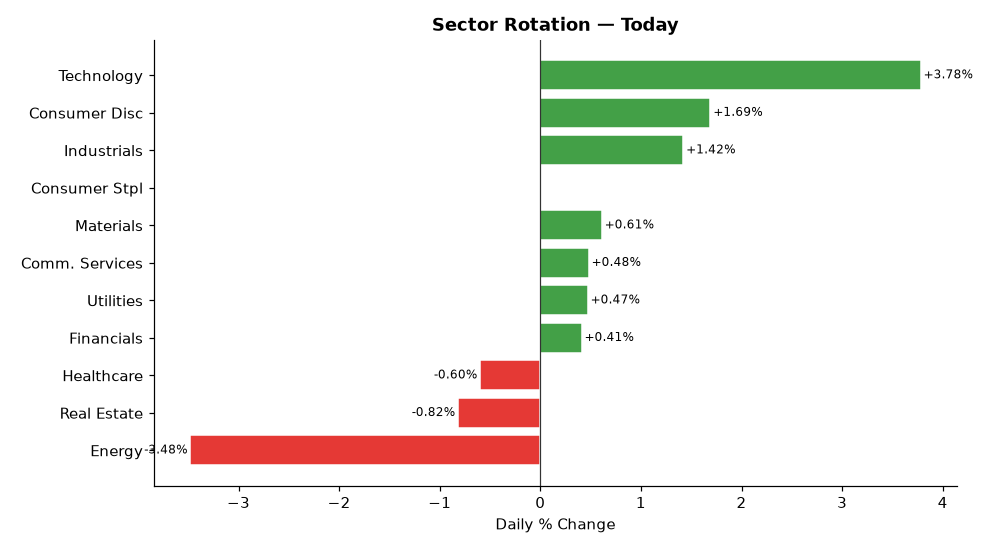
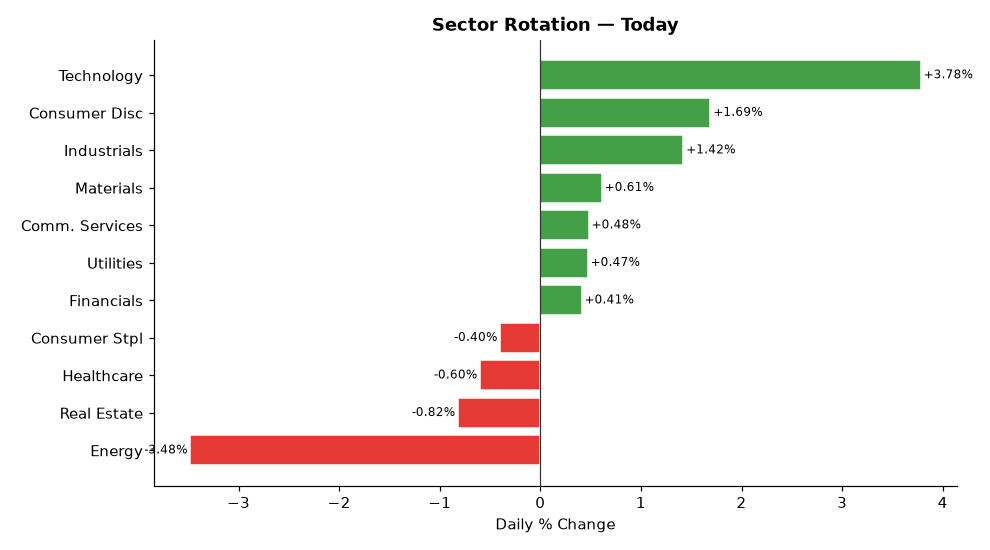
deploy: b7fadf5b06deb90e7ebb92f278722414bdd9750d

diff --git a/index.html b/index.html
@@ -4,7 +4,7 @@
   <meta charset="UTF-8">
   <meta name="viewport" content="width=device-width,initial-scale=1">
   <meta http-equiv="Cache-Control" content="no-cache,no-store,must-revalidate">
-  <title>Stock Breakout Screener — 2026-06-15 22:10</title>
+  <title>Stock Breakout Screener — 2026-06-15 23:30</title>
   <style>
     *{box-sizing:border-box;margin:0;padding:0}
     body{font-family:'Segoe UI',Arial,sans-serif;background:#f0f2f5;
@@ -34,7 +34,7 @@
 
 <div class="hdr">
   <h1>📈 Stock Breakout Screener</h1>
-  <p>Updated: 2026-06-15 22:10 UTC &nbsp;·&nbsp; Phase: After-Hours (4:00–8:00 PM ET) &nbsp;·&nbsp;
+  <p>Updated: 2026-06-15 23:30 UTC &nbsp;·&nbsp; Phase: After-Hours (4:00–8:00 PM ET) &nbsp;·&nbsp;
      129 stocks screened &nbsp;·&nbsp; Top 5 by conviction score</p>
 </div>
 
@@ -292,28 +292,28 @@
         </tr>
         <tr>
           <td style="text-align:left;padding-left:10px;font-weight:600">
-            #4 Consumer Stpl</td>
-          <td style="background:#ffebee;color:#c62828;font-weight:700">+nan%</td>
-        </tr>
-        <tr>
-          <td style="text-align:left;padding-left:10px;font-weight:600">
-            #5 Materials</td>
+            #4 Materials</td>
           <td style="background:#e8f5e9;color:#2e7d32;font-weight:700">+0.61%</td>
         </tr>
         <tr>
           <td style="text-align:left;padding-left:10px;font-weight:600">
-            #6 Comm. Services</td>
+            #5 Comm. Services</td>
           <td style="background:#e8f5e9;color:#2e7d32;font-weight:700">+0.48%</td>
         </tr>
         <tr>
           <td style="text-align:left;padding-left:10px;font-weight:600">
-            #7 Utilities</td>
+            #6 Utilities</td>
           <td style="background:#e8f5e9;color:#2e7d32;font-weight:700">+0.47%</td>
         </tr>
         <tr>
           <td style="text-align:left;padding-left:10px;font-weight:600">
-            #8 Financials</td>
+            #7 Financials</td>
           <td style="background:#e8f5e9;color:#2e7d32;font-weight:700">+0.41%</td>
+        </tr>
+        <tr>
+          <td style="text-align:left;padding-left:10px;font-weight:600">
+            #8 Consumer Stpl</td>
+          <td style="background:#ffebee;color:#c62828;font-weight:700">-0.40%</td>
         </tr>
         <tr>
           <td style="text-align:left;padding-left:10px;font-weight:600">
@@ -367,7 +367,7 @@
         <li><b>Scoring weights:</b>
             Inst.Own(3) · Sector(3) · Volume(2) · Breakout(2) ·
             MA200(2) · MFI(2) · History(2) · IV(1) = 17pts max</li>
-        <li><b>Run time:</b> 2026-06-15 22:10 UTC — Market phase: After-Hours (4:00–8:00 PM ET)</li>
+        <li><b>Run time:</b> 2026-06-15 23:30 UTC — Market phase: After-Hours (4:00–8:00 PM ET)</li>
       </ul>
     </div>
 
